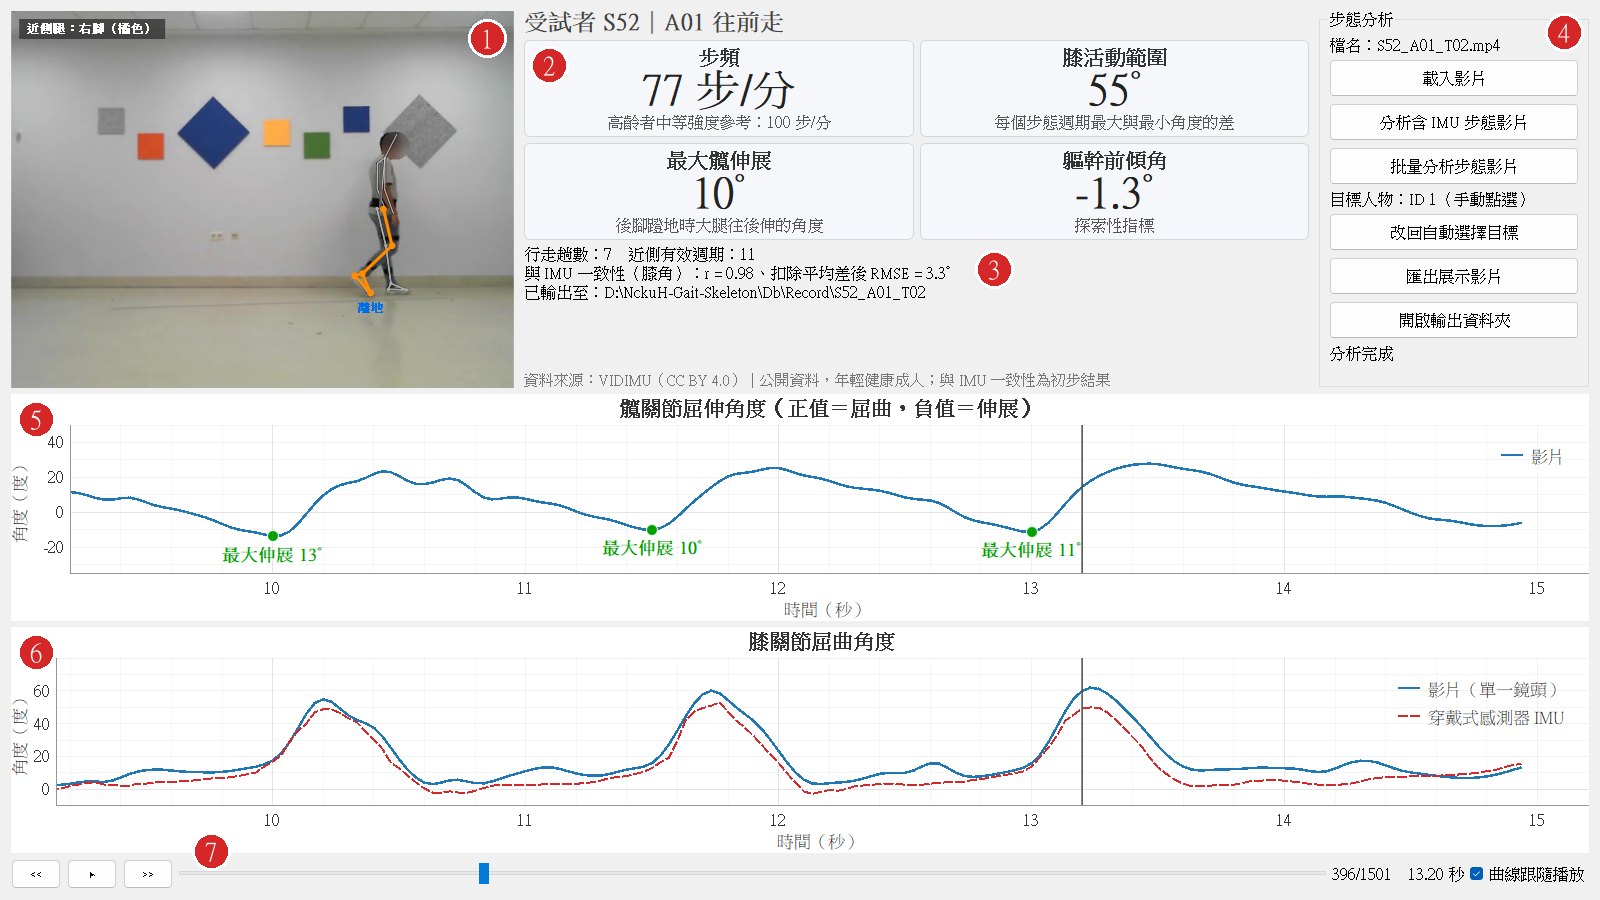
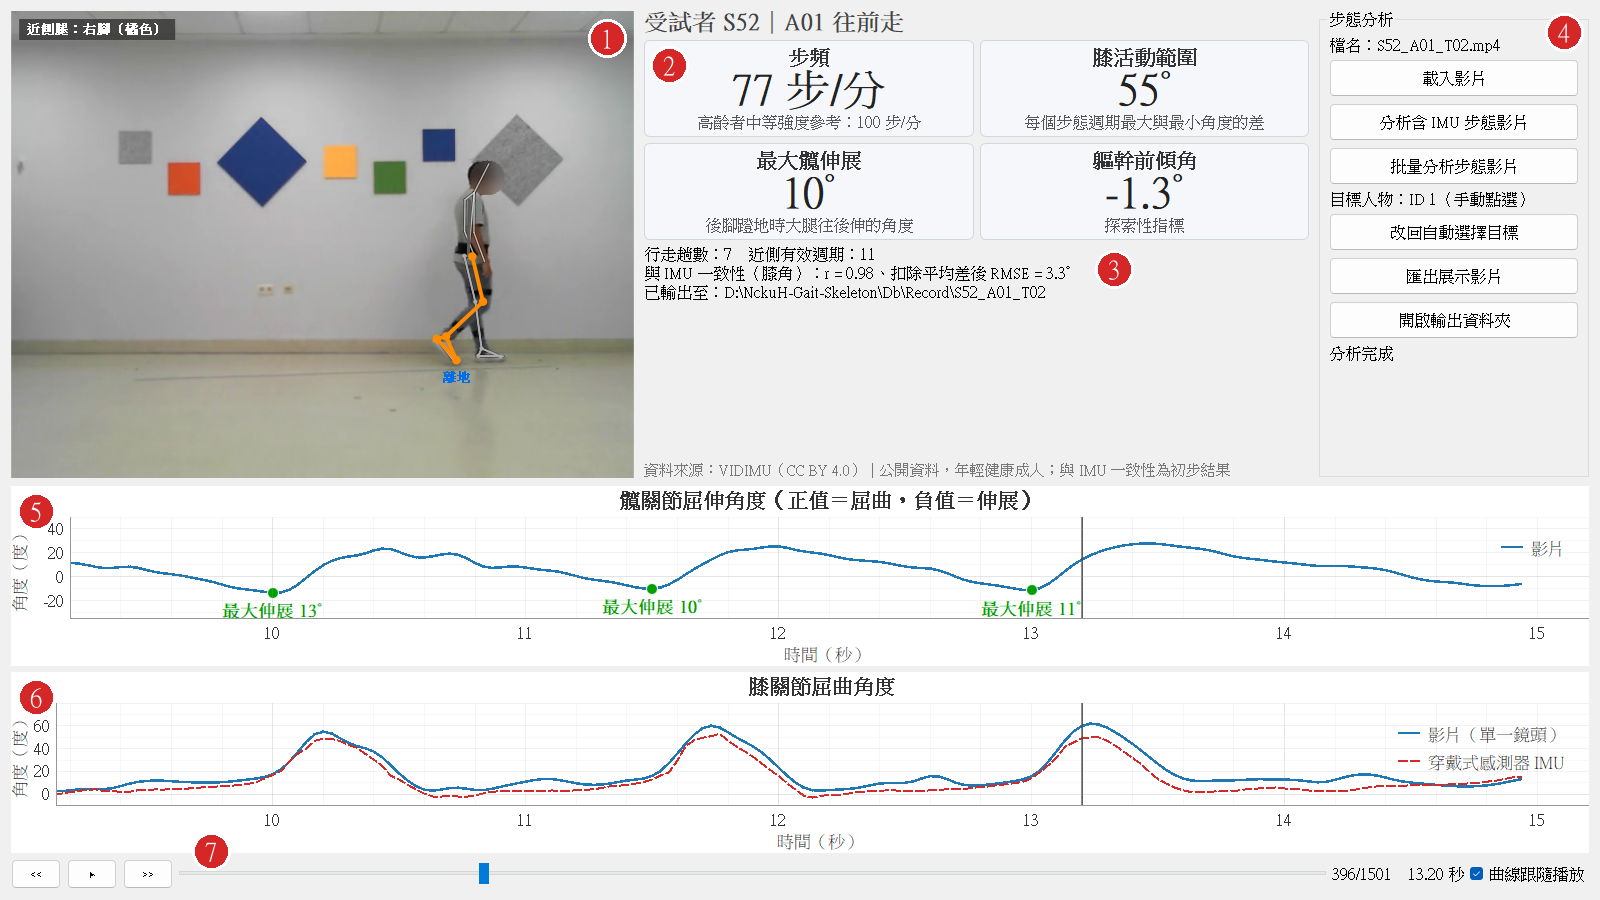
放大 UI 影片：上排預設佔 56% 高度，並可拖曳分隔線調整影片與曲線大小
- QSplitter 分隔上排與曲線，只在第一次顯示時套用預設比例，之後縮放視窗保留使用者的拖曳位置
- 曲線圖最小高度 175 px，小視窗時由影片讓出空間
- 1600×900 影片 503×377 → 623×467；1920×1000 564×423 → 697×523
- 更新 README 截圖與說明，新增版面測試

diff --git a/Src/UI_Control/gait_widget.py b/Src/UI_Control/gait_widget.py
@@ -12,7 +12,7 @@ import cv2
 import numpy as np
 from PyQt5.QtCore import Qt, QThread, QTimer, pyqtSignal
 from PyQt5.QtWidgets import (QCheckBox, QFileDialog, QGroupBox, QHBoxLayout, QLabel, QMessageBox, QProgressBar,
-                             QPushButton, QSlider, QVBoxLayout, QWidget)
+                             QPushButton, QSlider, QSplitter, QVBoxLayout, QWidget)
 
 sys.path.insert(0, os.path.abspath(os.path.join(os.path.dirname(__file__), '..')))
 
@@ -25,6 +25,8 @@ from gait_analysis.vidimu import OUTPUT_ROOT, PROJECT_ROOT, VIDEO_DIR, gait_vide
 from gait_views import AnglePlot, FrameView, SummaryPanel, VideoRow   # noqa: E402
 
 FOLLOW_BEFORE_S, FOLLOW_AFTER_S = 4.0, 2.0     # 播放時曲線顯示目前時間前 4 秒、後 2 秒
+TOP_SHARE = 0.56                               # 上排（影片、數字、按鈕）預設佔可用高度的比例
+PLOT_MIN_HEIGHT = 175                          # 每張曲線圖最小高度（像素），刻度與最大伸展標籤才放得下
 
 
 class AnalysisThread(QThread):
@@ -135,6 +137,8 @@ class GaitTabControl(QWidget):
         self.hipPlot = AnglePlot('髖關節屈伸角度（正值＝屈曲，負值＝伸展）', (-35, 50))
         self.kneePlot = AnglePlot('膝關節屈曲角度', (-10, 80))
         self.kneePlot.setXLink(self.hipPlot)
+        for plot in (self.hipPlot, self.kneePlot):
+            plot.setMinimumHeight(PLOT_MIN_HEIGHT)      # 小視窗時曲線不被壓扁，改由上排讓出空間
 
         # 數字區：檔頭、四項指標、分析摘要、資料來源
         self.headerLabel = QLabel('')
@@ -205,11 +209,35 @@ class GaitTabControl(QWidget):
         side.addStretch(1)
 
         self.topRow = VideoRow(self.view, numbers, panel)
+        curves = QWidget()
+        curvesLayout = QVBoxLayout(curves)
+        curvesLayout.setContentsMargins(0, 0, 0, 0)
+        curvesLayout.addWidget(self.hipPlot)
+        curvesLayout.addWidget(self.kneePlot)
+        # 上排（影片）與曲線之間可拖曳分隔線調整比例；預設上排佔 TOP_SHARE
+        self.splitter = QSplitter(Qt.Vertical)
+        self.splitter.addWidget(self.topRow)
+        self.splitter.addWidget(curves)
+        self.splitter.setChildrenCollapsible(False)
+        self.splitter.setHandleWidth(8)
+        self.splitter.setStretchFactor(0, 1)
+        self.splitter.setStretchFactor(1, 1)
+        self.splitter.setToolTip('拖曳上下分隔線可調整影片與曲線的大小')
+        self.splitterInitialized = False
         layout = QVBoxLayout(self)
-        layout.addWidget(self.topRow, 5)
-        layout.addWidget(self.hipPlot, 3)
-        layout.addWidget(self.kneePlot, 3)
+        layout.addWidget(self.splitter, 1)
         layout.addLayout(controls)
+
+    def showEvent(self, event):
+        super().showEvent(event)
+        if not self.splitterInitialized:
+            # 只在第一次顯示（版面算好之後）套用預設比例；之後縮放視窗保留使用者拖曳的位置
+            self.splitterInitialized = True
+            QTimer.singleShot(0, self.applyDefaultSplit)
+
+    def applyDefaultSplit(self):
+        height = sum(self.splitter.sizes())
+        self.splitter.setSizes([int(height * TOP_SHARE), height - int(height * TOP_SHARE)])
 
     def bindUi(self):
         self.loadBtn.clicked.connect(self.loadVideo)

diff --git a/tests/test_gait_widget.py b/tests/test_gait_widget.py
@@ -98,6 +98,26 @@ class LayoutTests(unittest.TestCase):           # 合成畫面，不需要資料
                     self.assertLess(numbers.right(), side.left())
                     self.assertLessEqual(side.right(), widget.topRow.width())
 
+    def test_top_row_gets_default_share_and_splitter_is_draggable(self):
+        import gait_widget
+        widget = self.show((480, 640), (1600, 900))
+        top, curves = widget.splitter.sizes()
+        self.assertAlmostEqual(top / (top + curves), gait_widget.TOP_SHARE, delta=0.03)
+        self.assertGreaterEqual(widget.view.width(), 600)            # 1600×900 時影片寬至少 600
+        dragged = top - 80                                           # 使用者往上拖：影片變小、曲線變大
+        widget.splitter.setSizes([dragged, top + curves - dragged])
+        APP.processEvents()
+        self.assertLessEqual(widget.view.height(), dragged)
+        widget.resize(1610, 900)
+        APP.processEvents()
+        self.assertLess(widget.splitter.sizes()[0], top - 60)        # 之後縮放視窗不會蓋掉使用者的拖曳
+
+    def test_curves_keep_minimum_height_in_small_window(self):
+        import gait_widget
+        widget = self.show((480, 640), (1250, 780))
+        for plot in (widget.hipPlot, widget.kneePlot):
+            self.assertGreaterEqual(plot.height(), gait_widget.PLOT_MIN_HEIGHT)
+
     def test_curves_sit_between_top_row_and_slider(self):
         widget = self.show((480, 640), (1250, 780))
         ys = [w.mapTo(widget, w.rect().topLeft()).y()

diff --git a/README.md b/README.md
@@ -253,7 +253,7 @@ python Src\UI_Control\main.py
 | 6 | 膝角曲線 | 近側腿膝關節屈曲角度；有 IMU 時疊紅色虛線 |
 | 7 | 播放控制 | `<<`、`▶`、`>>`、進度條、目前格數與秒數、「曲線跟隨播放」 |
 
-曲線與進度條上下對齊同一條時間軸，灰色直線是目前時間。畫面直接以 Qt 繪製，任何視窗大小都保持清晰；視窗較矮時上排會依數字面板需要的高度撐開，由曲線讓出空間。
+曲線與進度條上下對齊同一條時間軸，灰色直線是目前時間。畫面直接以 Qt 繪製，任何視窗大小都保持清晰；上排預設約佔 56% 高度；**拖曳上排與曲線之間的分隔線**可自行調整影片與曲線的大小（之後縮放視窗會保留該位置）。曲線圖保有最小高度，視窗較矮時由影片縮小讓出空間。
 
 ### 操作
 
